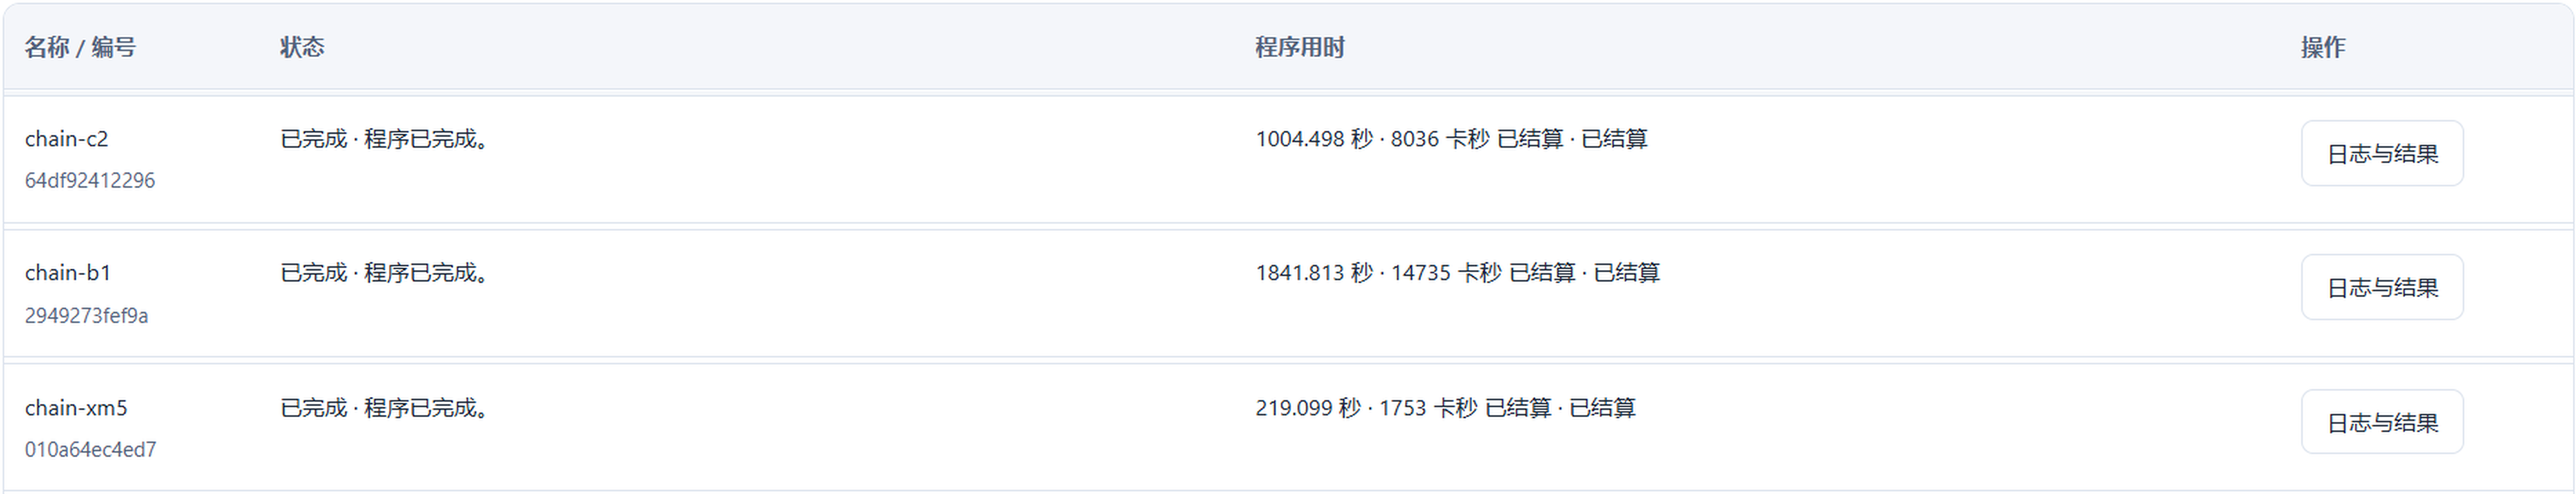
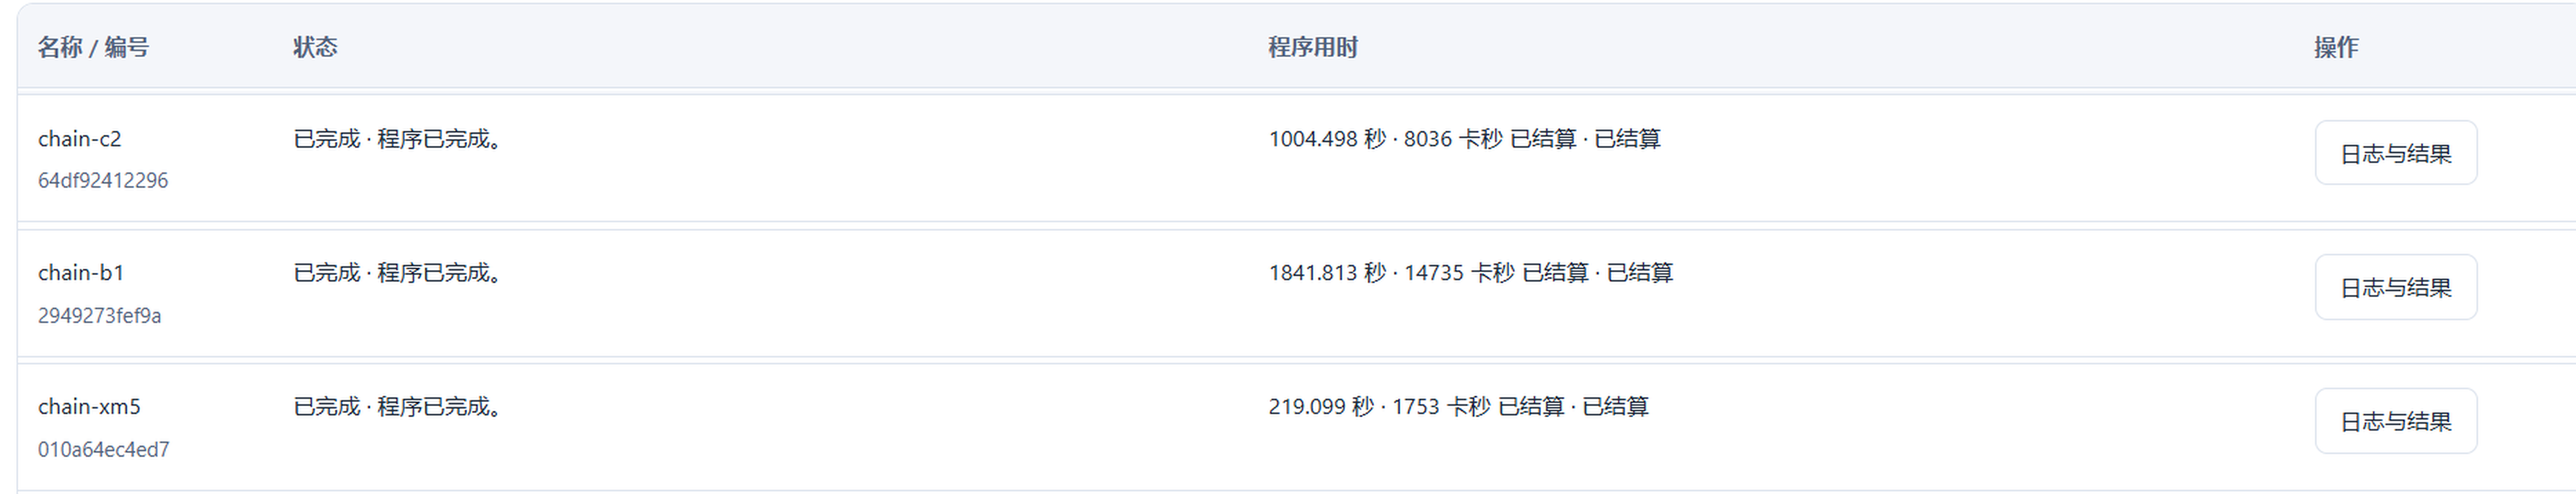
docs: team name zzucs123, refresh result screenshots, embed them in README

diff --git a/docs/提交清单.md b/docs/提交清单.md
@@ -8,9 +8,9 @@
 | 文件 | 内容 | 状态 |
 | --- | --- | --- |
 | `report/初赛实验报告.md` / `.docx` | 初赛阶段全量记录（九齿编译链移植、四个既有算子、新增 fused attention、多设备缓存键、正确性验证、性能与限制），18 页 / 7 表 / 5 图（含三段重建链两张平台截图）；只述当前实现与实测结果 | 待填姓名学号 |
-| `report/【嵩山杯】Minimax初赛阶段报告-xdzs2026_b0359.docx` | **按组委会官方模板直接产出**（团队信息 / 完成情况 / 复现指令 / 结果 四段，与模板逐段对应；格式、字体、行距、内嵌首帧图片、代码块样式全部继承模板未改），4 页 / 1 张内嵌图片 / 2 个代码块；生成脚本 `stage/build_prelim_tpl.py`（读模板 → 只替换文字） | 待填队伍名与成员 |
+| `report/【嵩山杯】Minimax初赛阶段报告-zzucs123.docx` | **按组委会官方模板直接产出**（团队信息 / 完成情况 / 复现指令 / 结果 四段，与模板逐段对应；格式、字体、行距、内嵌首帧图片、代码块样式全部继承模板未改），4 页 / 1 张内嵌图片 / 2 个代码块；生成脚本 `stage/build_prelim_tpl.py`（读模板 → 只替换文字）；队伍已填 **zzucs123**，成员待填 | 待填成员 |
 | `report/决赛实验报告.md` / `.docx` | 决赛报告（技术方案 + 四项指标 + 合规），8 张表 | 待填姓名学号 |
-| `report/minimax_h3_eng_pkg_xdzs2026_b0359.zip` | 可解包可重建工程包：src/（shim 源码、kb7 补丁、HYGON FA 后端、InfiniCore 整套补丁）jobs/（setup、出片、A/B、SSIM、提交器、repro_xmake_step.sh / repro_build.sh / repro_run.sh 三步重建链）build/（from_scratch.sh / reproduce.sh / xmake_build.sh / patch_py.py / gen_dispatch.py / README）src/（InfiniCore 快照 3.76 MB、overlay 19.6 KB、部署 kernel 集 2.46 MB、SHA256SUMS）results/（compare 原始输出、2 步 A/B 表、三段重建链日志 chain_20261110_xmake/build/run.txt）README.md | ✅ 37 文件 / 5.94 MB（含三份可重建输入） |
+| `report/minimax_h3_eng_pkg_zzucs123.zip` | 可解包可重建工程包：src/（shim 源码、kb7 补丁、HYGON FA 后端、InfiniCore 整套补丁）jobs/（setup、出片、A/B、SSIM、提交器、repro_xmake_step.sh / repro_build.sh / repro_run.sh 三步重建链）build/（from_scratch.sh / reproduce.sh / xmake_build.sh / patch_py.py / gen_dispatch.py / README）src/（InfiniCore 快照 3.76 MB、overlay 19.6 KB、部署 kernel 集 2.46 MB、SHA256SUMS）results/（compare 原始输出、2 步 A/B 表、三段重建链日志 chain_20261110_xmake/build/run.txt）README.md | ✅ 45 文件 / 7.78 MB（含三份可重建输入 + `figures/` 6 张结果截图，README 内嵌可直接看） |
 | 代码仓库（public） | https://github.com/Wang-Yi-Dao/minimax-h3-fl2va-infini-ninetoothed ｜ 分支 `main` ｜ tag `v1.0-submission` = `a9c03ff`（出片代码）｜ 文档定稿 tag `v1.1-report`（tag 之后仅新增文档、结果说明与可重建输入，未改出片代码） | ✅ |
 | `report/初赛实验报告.md` §8.4 | 合规披露：九齿边界、正式路径计算落点（桥接层不含 ATen/torch 计算分支）、上游 VAE/scheduler 边界、多设备缓存键、第三方组件、作业镜像内四处环境适配补丁逐条说明；工程包 `jobs/setup.py` 即这些补丁的源码 | ✅ |
 | 成片 `nl50_1107_143038_SSIM80.012.mp4` | TP8、768×928、124 帧、24 fps、h264+aac、50 步、含音频（1,620,561 B，sha256 `2475a12e…3637b`），官方 compare **80.012%**；本地 ffprobe 复核与 Size/Length PASS 一致。已下载到交付目录 `07_成片_video/`；重跑件 `nl50_1107_144804.mp4`（79.150%）留在集群 AFS | ✅ |
@@ -19,7 +19,7 @@
 ## 二、还需要你定的三件事
 
 1. **姓名 / 学号**：初赛报告题头、课程报告封面与作者行、文件名（共 4 处 `待填`）。给我之后一条命令即可全部替换并重出 docx。
-2. **附录 B 三张嵩山杯截图**：①"我的成绩" ②"我的团队"（团队账户 xdzs2026_b0359） ③"大赛排名"（如有）。初赛报告附录 B 与决赛报告附录 B 都留了位置。
+2. **附录 B 三张嵩山杯截图**：①"我的成绩" ②"我的团队"（队伍 zzucs123） ③"大赛排名"（如有）。初赛报告附录 B 与决赛报告附录 B 都留了位置。
 3. **是否随包提交成片 mp4**：成片已从平台个人存储下载到 `07_成片_video/nl50_1107_143038_SSIM80.012.mp4`（1.5 MB）。要随工程包/RAR 一起交就说一声，我把它放进包里；不随包就保持现状（清单里给出作业号与 sha256 供核验）。
 
 ## 三、复现入口（对方拿到工程包后）

diff --git a/README.md b/README.md
@@ -1,6 +1,6 @@
 # MiniMax-H3 FL2VA 在 InfiniLM / InfiniCore + 九齿（NineToothed）上的适配与优化
 
-嵩山杯（2026 秋季高级人工智能）初赛作品代码仓库，团队账户 **xdzs2026_b0359**。
+嵩山杯（2026 秋季高级人工智能）初赛作品代码仓库，队伍 **zzucs123**。
 
 本仓库只包含**我们自己写的代码、补丁、作业脚本与实测结果**；上游 InfiniLM / InfiniCore / nine-toothed
 以补丁形式给出，不复制其完整源码（体积与许可原因，见 `THIRD_PARTY_NOTICES.md`）。
@@ -26,6 +26,23 @@ CMP_RC=0
[1 lines of base64/hex data omitted]
 本地 ffprobe 复核为 h264 768×928 / 124 帧 / 24 fps / 含 aac 音轨，与官方 compare 的 `Size` / `Length` PASS 一致；
 该文件较大未入库，如需可与平台作业 `e2b965628ec0482bbb61475434099412` 的记录核对。
+
+
+## 结果截图
+
+正式运行：官方 `examples/minimax_h3_compare.py` 输出 `Average SSIM: 80.012%`、`CMP_RC=0`。
+
+![正式运行 官方 compare 输出](figures/compare_nn38_log.png)
+
+最近一次**从零重构**（三段链：xmake 工具链 → 源码编译五个 .so → 出片+官方 compare）得到 79.493%，与正式运行同一档：
+
+![三段链作业列表](figures/compare_chain_jobs.png)
+
+![chain-c2 作业结果与官方 compare 输出](figures/compare_chain_log.png)
+
+成片抽帧（768×928 / 124 帧 / 24 fps / 含音轨）：
+
+![成片抽帧](figures/video_frames_nl50.png)
 
 ## 核心贡献
 

diff --git a/docs/初赛实验报告.md b/docs/初赛实验报告.md
@@ -1,6 +1,6 @@
 # 基于 InfiniLM 与 InfiniCore 的 MiniMax-H3 首帧视频生成适配与优化——初赛实验报告
 
-> 课程：2026 秋季高级人工智能 ｜ 姓名：待填 ｜ 学号：待填 ｜ 团队账户：xdzs2026_b0359
+> 课程：2026 秋季高级人工智能 ｜ 姓名：待填 ｜ 学号：待填 ｜ 队伍：zzucs123
 > 对应赛题：嵩山杯生态应用挑战赛 · 赛题 1 ｜ 报告版本：2026-11-08
 
 ## 摘要
@@ -463,7 +463,7 @@ python3 -u $W/InfiniLM/examples/minimax_h3_compare.py --tasks fl2va \
 按课程提交要求，需附嵩山杯比赛页面三张截图（图片文件置于 `report/figs/`，与课程报告附录 B 共用）：
 
 - **图 B-1** 嵩山杯“我的成绩”页面（`figs/shanshanbei_score.png`）——含最好一次提交的成绩；
-- **图 B-2** 嵩山杯“我的团队”页面（`figs/shanshanbei_team.png`）——团队账户 xdzs2026_b0359 与成员；
+- **图 B-2** 嵩山杯“我的团队”页面（`figs/shanshanbei_team.png`）——队伍 zzucs123 与成员；
 - **图 B-3** 嵩山杯“大赛排名”页面（`figs/shanshanbei_rank.png`）——如赛事提供排名。
 
 比赛站点在提交时若不可访问，则以平台侧留存的官方评分证据作为成绩佐证：作业编号 `e2b96562…`（nn38-50-blk）的作业卡片与日志框截图见 `figs/compare_nn38_platform.png`（即图 6-1）与 `figs/compare_nn38_log.png`（即图 6-2），其中 `Size: PASS`、`Length: PASS`、`Average SSIM: 80.012%`、`CMP_RC=0`、`TOTAL_SECS=965` 与本报告 §6.4 逐行一致。

diff --git a/docs/课程报告.md b/docs/课程报告.md
@@ -214,6 +214,6 @@ python3 -u $W/InfiniLM/examples/minimax_h3_compare.py --tasks fl2va \
 
 ![图 B-3 嵩山杯"我的成绩"页面](../figures/shanshanbei_score.png)
 
-![图 B-4 嵩山杯"我的团队"页面（团队账户 xdzs2026_b0359）](../figures/shanshanbei_team.png)
+![图 B-4 嵩山杯"我的团队"页面（队伍 zzucs123）](../figures/shanshanbei_team.png)
 
 ![图 B-5 嵩山杯"大赛排名"页面](../figures/shanshanbei_rank.png)
